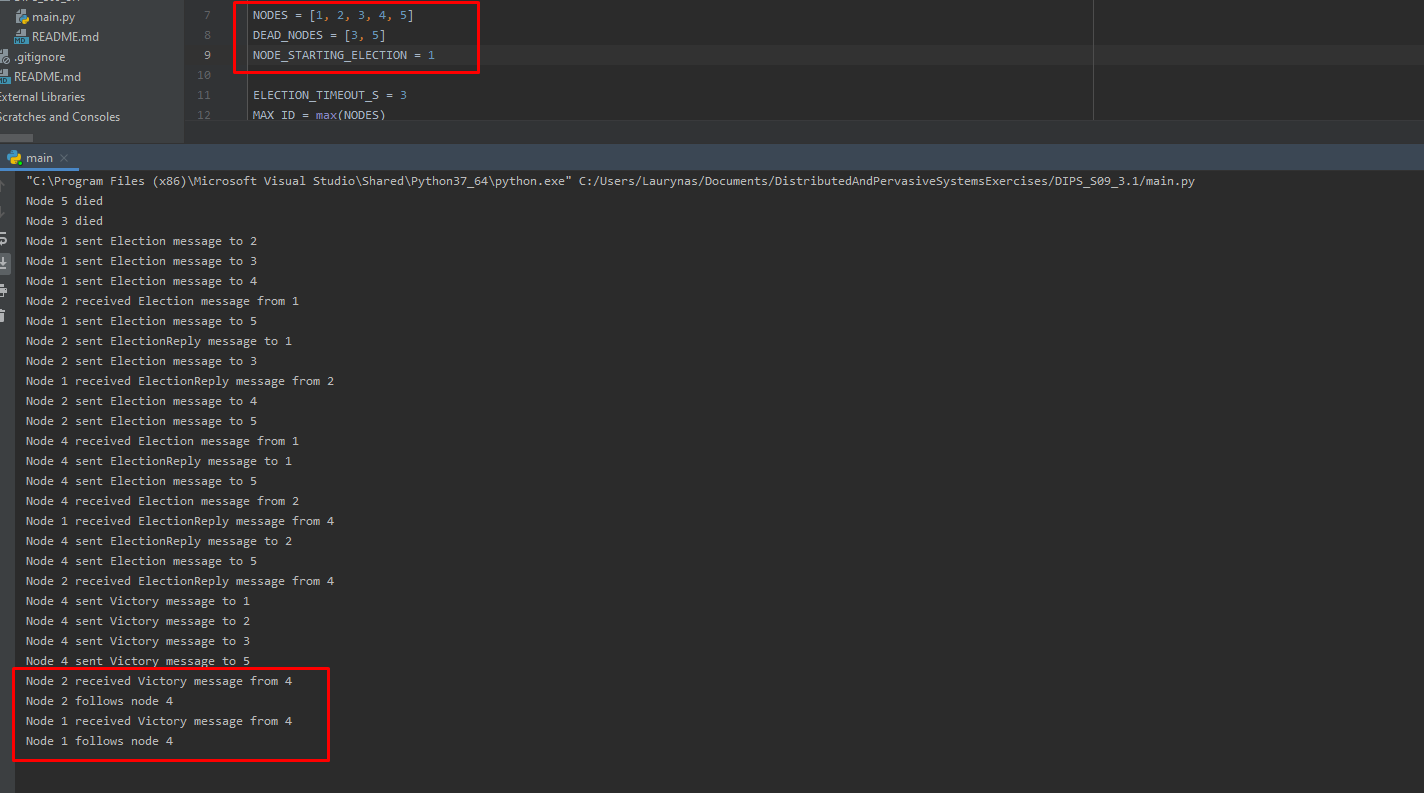
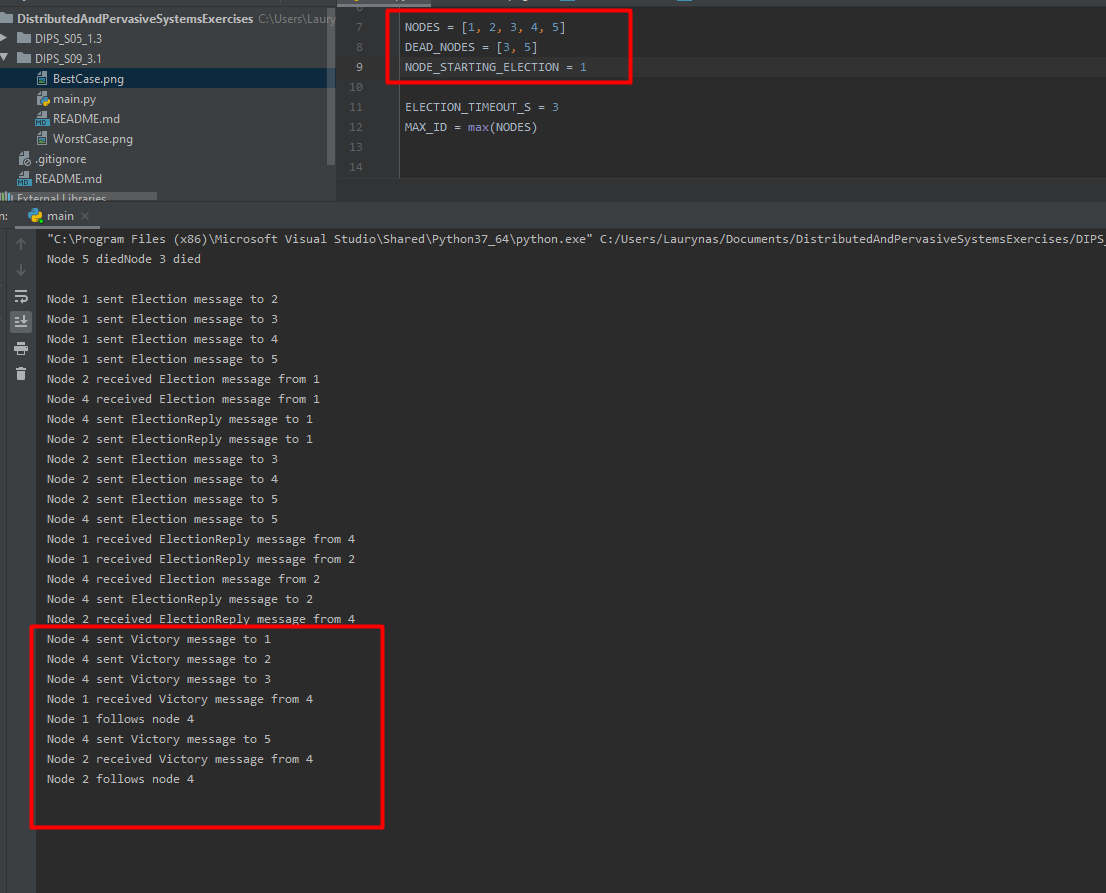
Fixed the election procedure when a node in a progress of election receives election message from a node with a lower id

Changed region(s): [[0.0, 0.0, 1.0, 0.9685]]

diff --git a/DIPS_S09_3.1/main.py b/DIPS_S09_3.1/main.py
@@ -6,7 +6,7 @@ import itertools
 
 NODES = [1, 2, 3, 4, 5]
 DEAD_NODES = [3, 5]
-NODE_STARTING_ELECTION = 4
+NODE_STARTING_ELECTION = 1
 
 ELECTION_TIMEOUT_S = 3
 MAX_ID = max(NODES)
@@ -67,10 +67,9 @@ def node_process_start_election(id, channels):
                         run_election_again = False
                         return run_election_again
                     elif message == 'Election' and channel.pair_id < id:
-                        # Received an election message from a node with lower id - send reply and restart election
+                        # Received an election message from a node with lower id - send a reply and continue with the
+                        # election
                         channel.send_message('ElectionReply')
-                        run_election_again = True
-                        return run_election_again
                     elif message == 'Victory':
                         # Received a victory message - follow that node
                         print('Node %d follows node %d' % (id, channel.pair_id))
